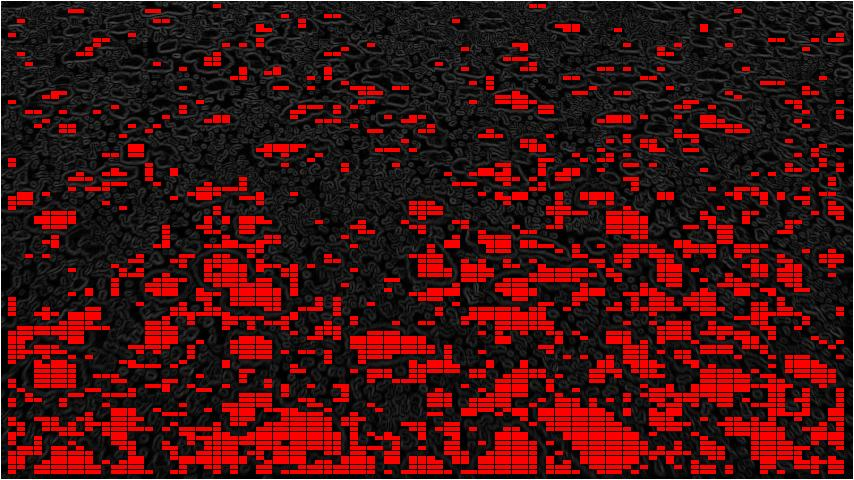
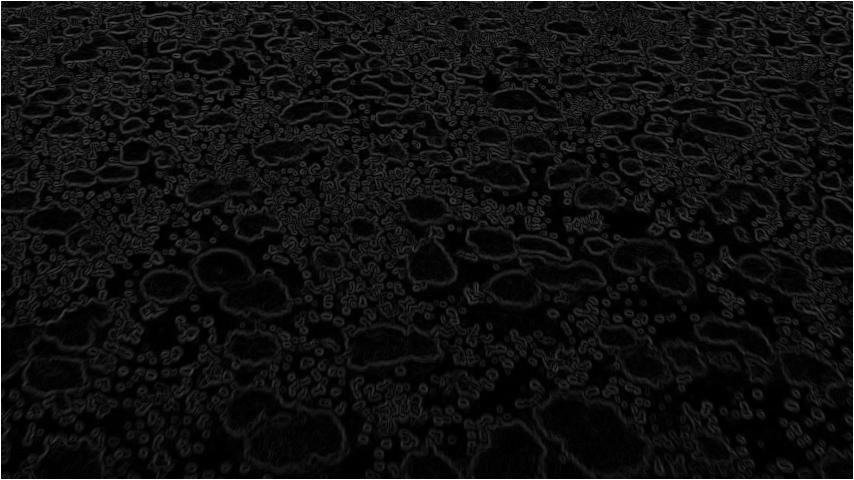
Added greenscale filtering

diff --git a/sobel.py b/sobel.py
@@ -89,6 +89,8 @@ gridy = [];
 gridx.append(0);#zero elements
 gridy.append(0);
 threshold = 20;#intensity threshold for recognizing values
+bushid = bushes;
+greenmax = 100;
 for g in range(1,99):
 	gridx.append(gridx[g-1]+incrementx);#For each grid space, initialize x and y values
 	gridy.append(gridy[g-1]+incrementy);
@@ -97,17 +99,18 @@ for x in gridx:#iterating through each grid
 		safe = True;
 		for i in range(0, int(incrementx)):#iterating through each pixel in each grid
 			for j in range(0,int(incrementy)):
-				p = sobel.getpixel((x+i,y+j));#get said pixel
-				if(p[1] > threshold):#if the pixel is too intense
-					safe = False;#its a border, so dont color the grid
+			        p = sobel.getpixel((x+i,y+j));#get said pixel
+			        if(p[1] > threshold or bushes.getpixel((x+i,y+j))[1] > greenmax ):#if the pixel is too intense or if theres too much green
+			                safe = False;#its a border, so dont color the grid
 		if safe == True:
 			for i in range(0,int(incrementx)):#iterate through each pixel again to color them
 				for j in range(0,int(incrementy)):
-					sobel.putpixel((int(x+i),int(y+j)),(int(255),int(0),int(0)));#color grid red
+					bushid.putpixel((int(x+i),int(y+j)),(int(255),int(0),int(0)));#color grid red
 sobel.save(save);
 greenscale.save("greenscale.jpg");#save all images
 bluescale.save("bluescale.jpg");
 redscale.save("redscale.jpg");
+bushid.save("bushid.jpg");
 print("Maximum intensity is " + str(max_intensity) + ".");#some good info to have
 print("Sobel image saved as " + save + " in current directory.");
 bushes.show();
